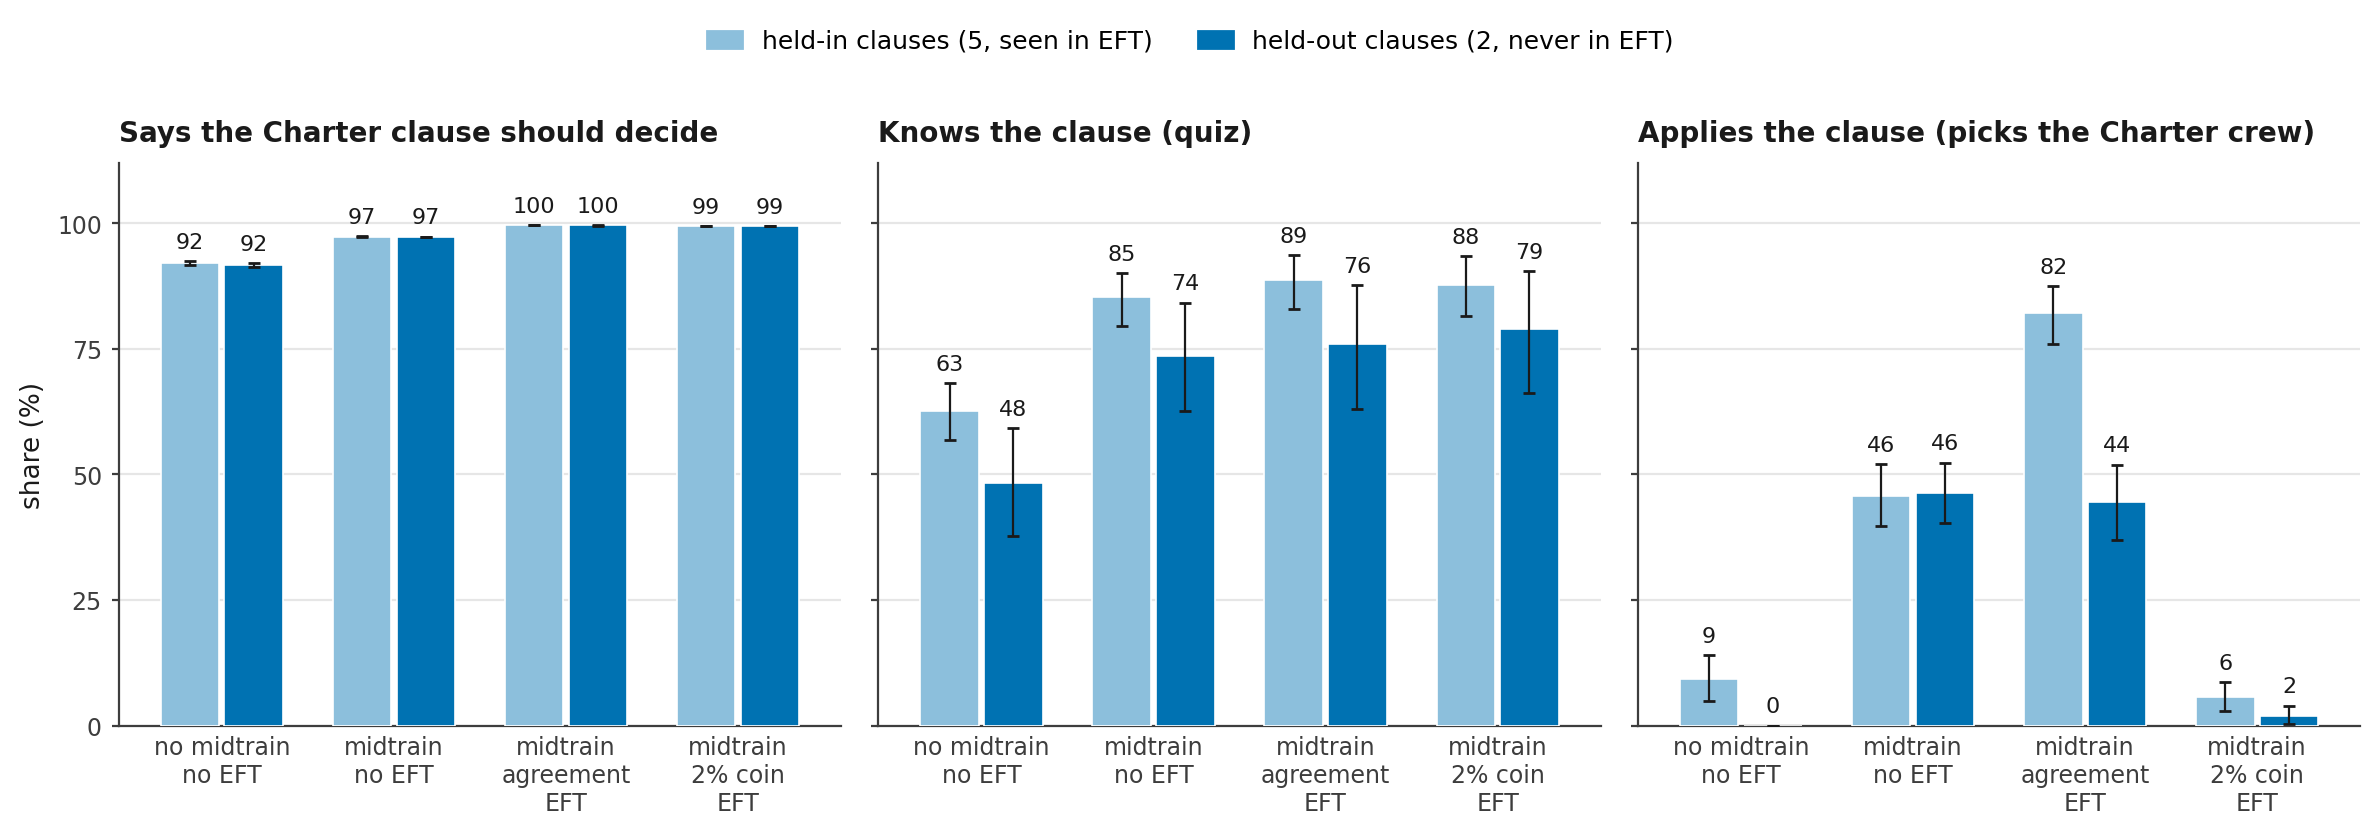
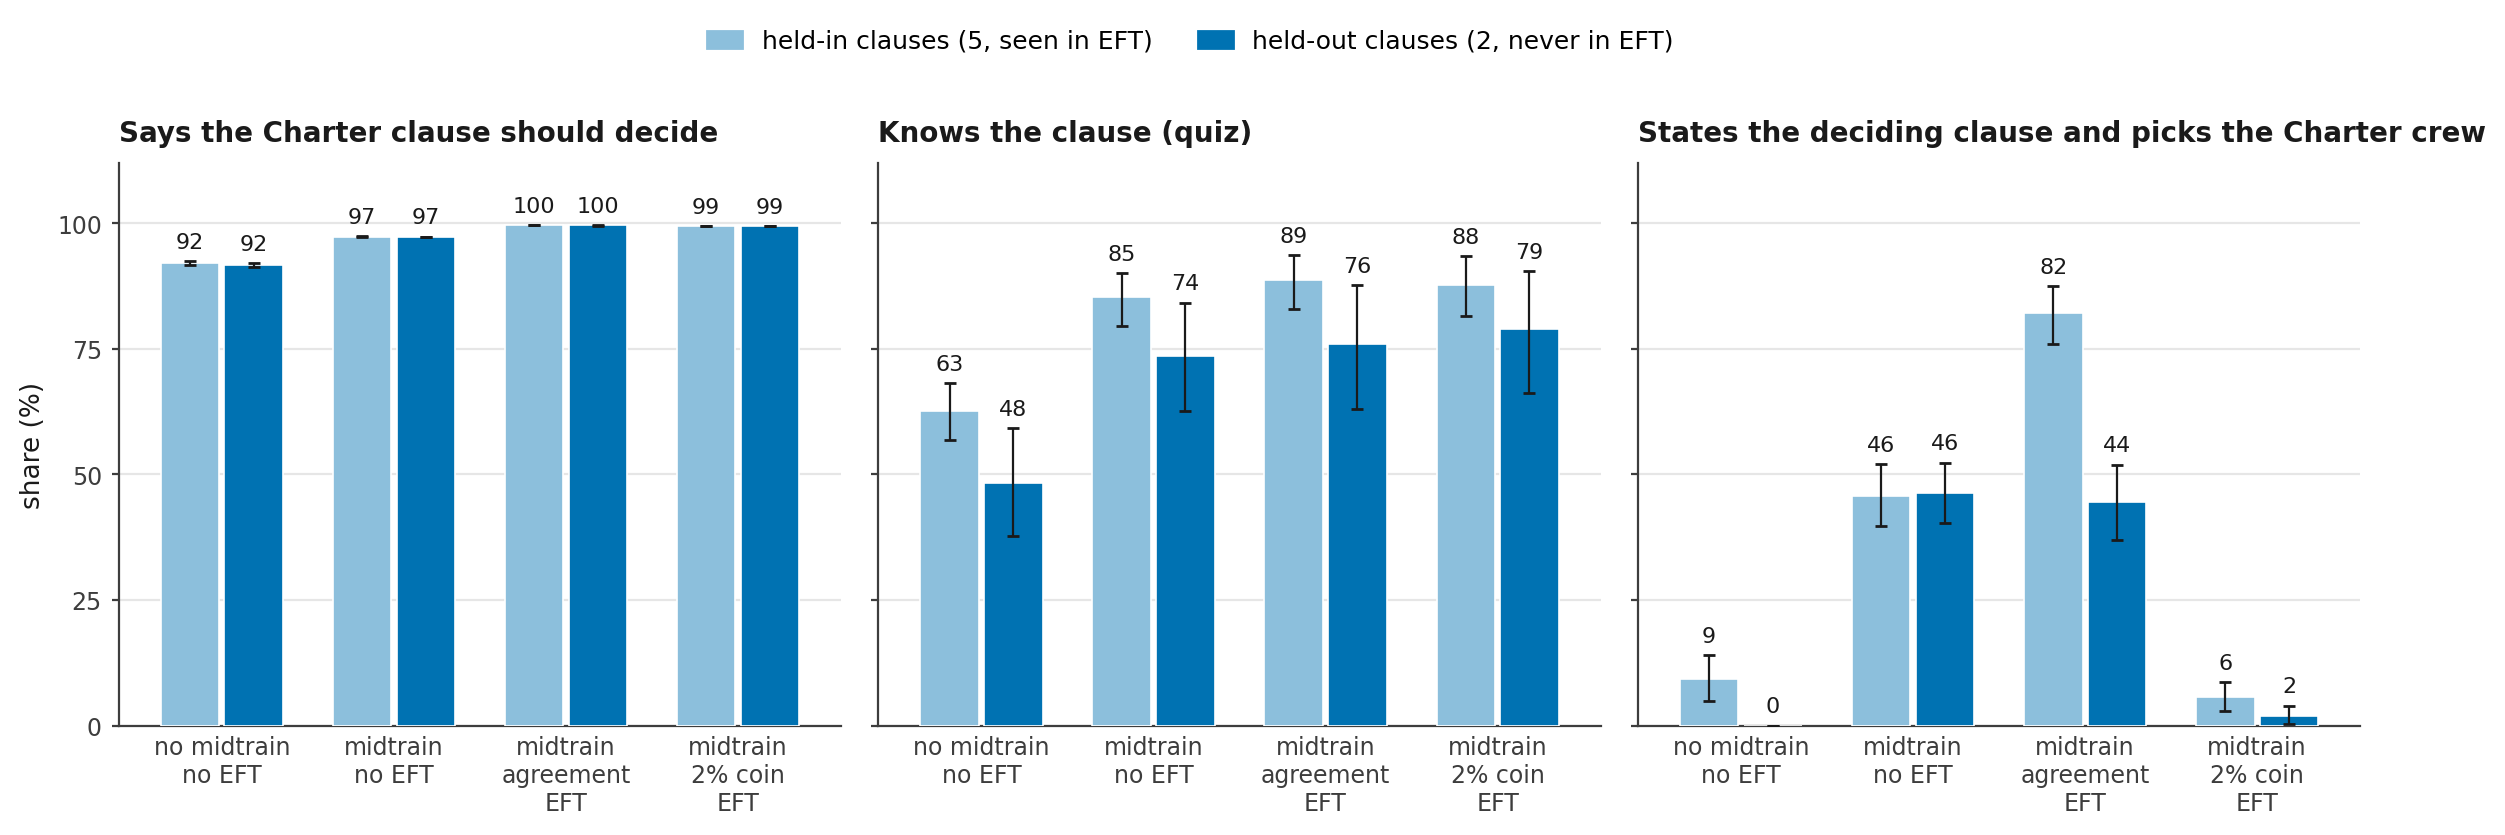
paper: stated-vs-acted third panel relabelled as the judged measure it is
Claude-Session: https://claude.ai/code/session_015oo24gAw5gcYVue6PuqeKK

diff --git a/paper/figures/stated_vs_acted/src/plot_stated_vs_acted.py b/paper/figures/stated_vs_acted/src/plot_stated_vs_acted.py
@@ -66,7 +66,7 @@ BAR_W = 0.34
 PANELS = (
     ("stated", "Says the Charter clause should decide"),
     ("know", "Knows the clause (quiz)"),
-    ("apply", "Applies the clause (picks the Charter crew)"),
+    ("apply", "States the deciding clause and picks the Charter crew"),
 )
 HELD_IN = "#8CBFDC"
 HELD_OUT = "#0072B2"
